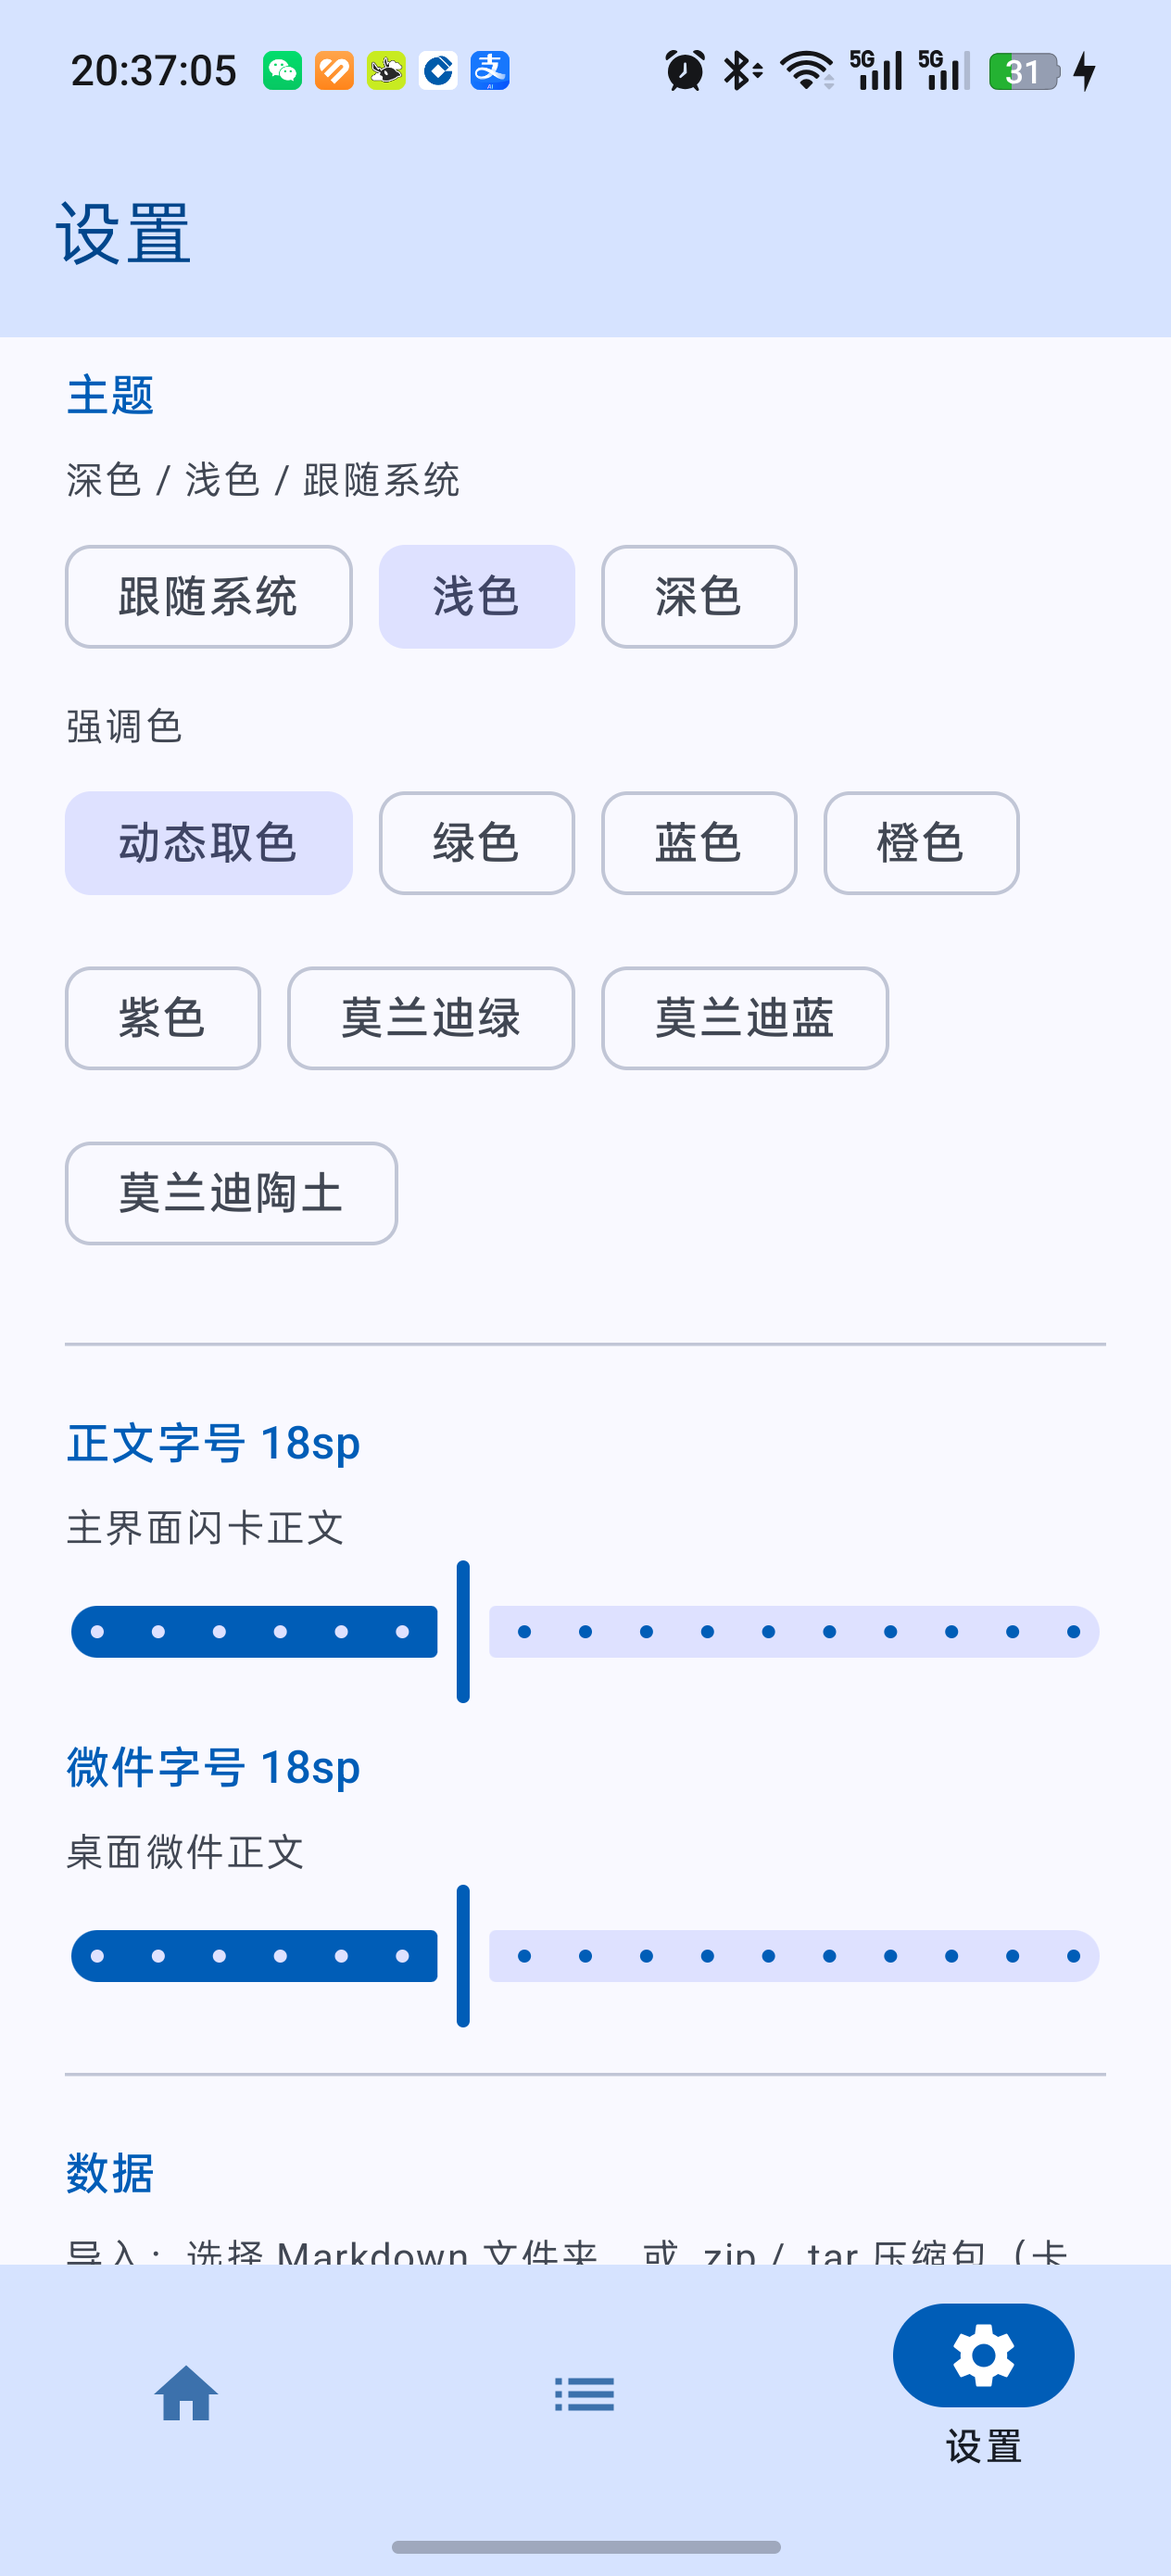
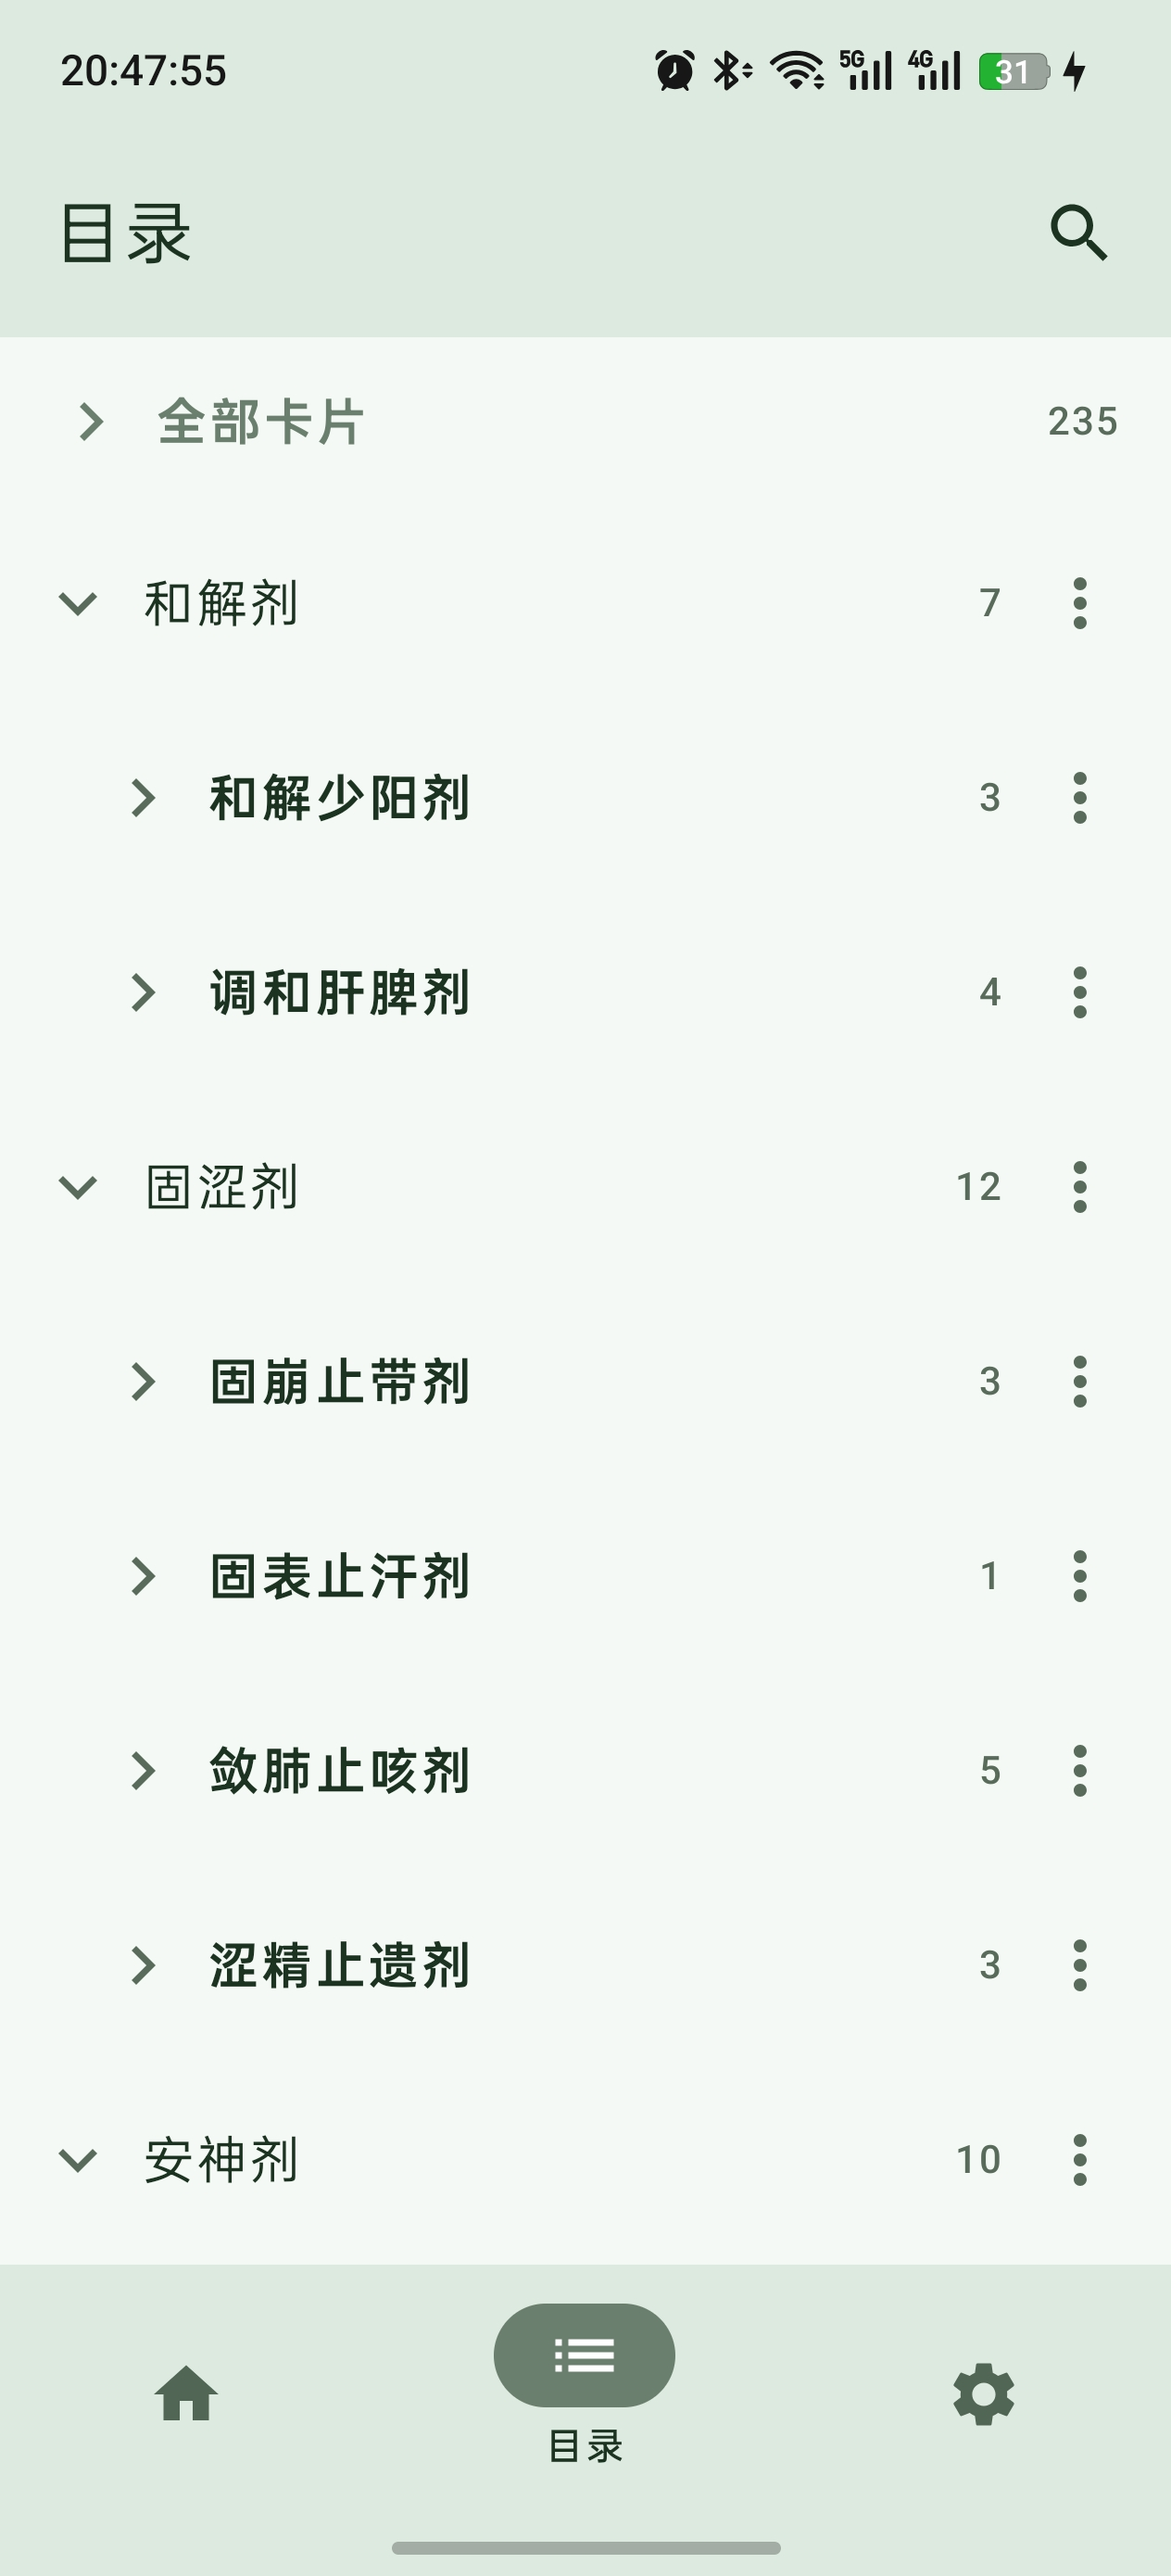
README 截图换成实拍四张（闪卡/目录/设置/微件），布局改 2x2

diff --git a/README.md b/README.md
@@ -10,9 +10,11 @@
 
 ## 截图
 
-| 闪卡浏览 | 目录管理 | 设置 |
-|---|---|---|
-| ![闪卡](docs/screenshots/browse.png) | ![目录](docs/screenshots/directory.png) | ![设置](docs/screenshots/settings.png) |
+| 闪卡浏览 | 目录管理 |
+|---|---|
+| ![闪卡](docs/screenshots/browse.png) | ![目录](docs/screenshots/directory.png) |
+| **设置** | **桌面微件** |
+| ![设置](docs/screenshots/settings.png) | ![微件](docs/screenshots/widget.png) |
 
 ## 功能
 
